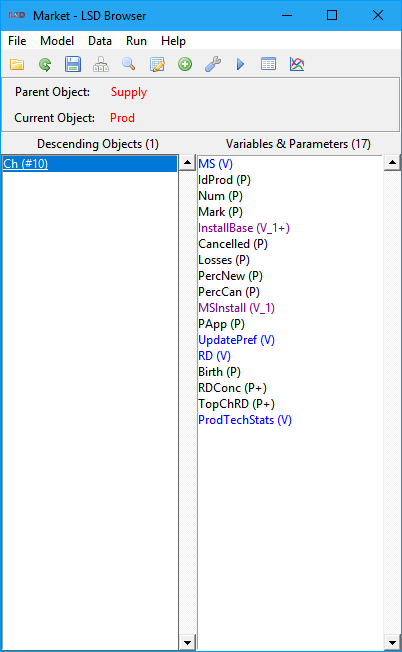
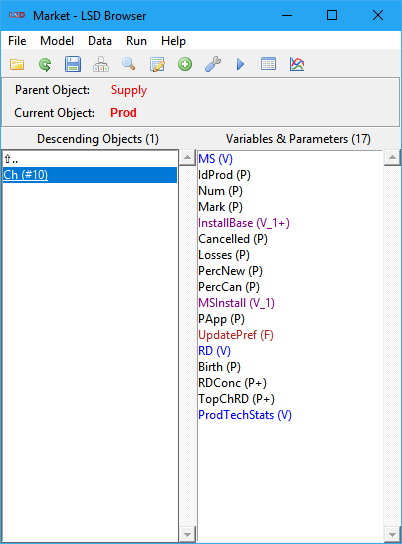
Change up moving in objects listbox in browser

Changed region(s): [[0.0, 0.0, 1.0, 1.0], [0.0, 0.9688, 0.4776, 1.0]]

diff --git a/src/interf.cpp b/src/interf.cpp
@@ -498,11 +498,22 @@ int browse( object *r, int *choice )
 		cmd( "mouse_wheel .l.s.c.son_name" );
 
 		// populate the objects panel
-		if ( r->b == NULL )
-			cmd( ".l.s.c.son_name insert end \"(none)\"; set nDesc 0" );
+		if ( r->up != NULL )
+		{
+			cmd( ".l.s.c.son_name insert end \"\u21E7..\"" );
+			cmd( "set upObjItem 1" );
+			cmd( "set app 1" );
+		}
 		else
 		{
+			cmd( "set upObjItem 0" );
 			cmd( "set app 0" );
+		}
+		
+		if ( r->up == NULL && r->b == NULL )
+			cmd( ".l.s.c.son_name insert end \"(none)\"" );
+		else
+		{
 			for ( cb = r->b; cb != NULL; cb = cb->next )
 			{
 				if ( cb->head != NULL )
@@ -520,10 +531,9 @@ int browse( object *r, int *choice )
 				cmd( ".l.s.c.son_name itemconf $app -fg red" );
 				cmd( "incr app" );
 			}
-			cmd( "set nDesc [ .l.s.c.son_name size ]" );
 		}	
 
-		cmd( "label .l.s.lab -text \"Descending Objects ($nDesc)\"" );
+		cmd( "label .l.s.lab -text \"Descending Objects ([ expr $app - $upObjItem ])\"" );
 
 		// objects panel context menu (right mouse button)
 		cmd( "menu .l.s.c.son_name.v -tearoff 0" );
@@ -552,19 +562,23 @@ int browse( object *r, int *choice )
 		cmd( ".l.s.c.son_name.v.a add command -label Object -command { set choice 3 }" );
 
 		// objects panel bindings
-		if ( r->b != NULL )
+		if ( r->up != NULL || r->b != NULL )
 		{
 			cmd( "bind .l.s.c.son_name <Return> { \
 					set listfocus 2; \
 					set itemfocus [ .l.s.c.son_name curselection ]; \
-					if { ! [ catch { set vname [ lindex [ split [ selection get ] ] 0 ] } ] } { \
-						set choice 4 \
+					if { $upObjItem && $itemfocus == 0 } { \
+						set choice 5 \
+					} { \
+						if { ! [ catch { set vname [ lindex [ split [ selection get ] ] 0 ] } ] } { \
+							set choice 4 \
+						} \
 					} \
 				}" );
 			cmd( "bind .l.s.c.son_name <Control-Return> { \
 					set listfocus 2; \
 					set itemfocus [ .l.s.c.son_name curselection ]; \
-					if { ! [ catch { set vname [ lindex [ split [ selection get ] ] 0 ] } ] } { \
+					if { ! ( $upObjItem && $itemfocus == 0 ) && ! [ catch { set vname [ lindex [ split [ selection get ] ] 0 ] } ] } { \
 						set useCurrObj no; \
 						set choice 6 \
 					} \
@@ -572,8 +586,12 @@ int browse( object *r, int *choice )
 			cmd( "bind .l.s.c.son_name <Double-Button-1> { \
 					set listfocus 2; \
 					set itemfocus [ .l.s.c.son_name curselection ]; \
-					if { ! [ catch { set vname [ lindex [ split [ selection get ] ] 0 ] } ] } { \
-						after idle { set choice 4 } \
+					if { $upObjItem && $itemfocus == 0 } { \
+						set choice 5 \
+					} { \
+						if { ! [ catch { set vname [ lindex [ split [ selection get ] ] 0 ] } ] } { \
+							after idle { set choice 4 } \
+						} \
 					} \
 				}" );
 			cmd( "bind .l.s.c.son_name <Button-2> { \
@@ -581,7 +599,7 @@ int browse( object *r, int *choice )
 					.l.s.c.son_name selection set @%%x,%%y; \
 					set listfocus 2; \
 					set itemfocus [ .l.s.c.son_name curselection ]; \
-					if { ! [ catch { set vname [ lindex [ split [ selection get ] ] 0 ] } ] } { \
+					if { ! ( $upObjItem && $itemfocus == 0 ) && ! [ catch { set vname [ lindex [ split [ selection get ] ] 0 ] } ] } { \
 						set useCurrObj no; \
 						set nocomp [ expr ! [ get_obj_conf $vname comp ] ]; \
 						if { $itemfocus == 0 } { \
@@ -603,34 +621,38 @@ int browse( object *r, int *choice )
 			cmd( "bind .l.s.c.son_name <Control-Up> { \
 					set listfocus 2; \
 					set itemfocus [ .l.s.c.son_name curselection ]; \
-					if { $itemfocus > 0 } { \
-						incr itemfocus -1 \
-					}; \
-					if { ! [ catch { set vname [ lindex [ split [ selection get ] ] 0 ] } ] } { \
-						set choice 60 \
+					if { ! ( $upObjItem && $itemfocus == 0 ) } { \
+						if { $itemfocus > 0 } { \
+							incr itemfocus -1 \
+						}; \
+						if { ! [ catch { set vname [ lindex [ split [ selection get ] ] 0 ] } ] } { \
+							set choice 60 \
+						} \
 					} \
 				}" );
 			cmd( "bind .l.s.c.son_name <Control-Down> { \
 					set listfocus 2; \
 					set itemfocus [ .l.s.c.son_name curselection ]; \
-					if { $itemfocus < [ expr [ .l.s.c.son_name size ] - 1 ] } { \
-						incr itemfocus \
-					}; \
-					if { ! [ catch { set vname [ lindex [ split [ selection get ] ] 0 ] } ] } { \
-						set choice 61 \
+					if { ! ( $upObjItem && $itemfocus == 0 ) } { \
+						if { $itemfocus < [ expr [ .l.s.c.son_name size ] - 1 ] } { \
+							incr itemfocus \
+						}; \
+						if { ! [ catch { set vname [ lindex [ split [ selection get ] ] 0 ] } ] } { \
+							set choice 61 \
+						} \
 					} \
 				}" );
 			cmd( "bind .l.s.c.son_name <Delete> { \
 					set listfocus 2; \
 					set itemfocus [ .l.s.c.son_name curselection ]; \
-					if { ! [ catch { set vname [ lindex [ split [ selection get ] ] 0 ] } ] } { \
+					if { ! ( $upObjItem && $itemfocus == 0 ) && ! [ catch { set vname [ lindex [ split [ selection get ] ] 0 ] } ] } { \
 						set choice 74 \
 					} \
 				}" );
 			cmd( "bind .l.s.c.son_name <F2> { \
 					set listfocus 2; \
 					set itemfocus [ .l.s.c.son_name curselection ]; \
-					if { ! [ catch { set vname [ lindex [ split [ selection get ] ] 0 ] } ] } { \
+					if { ! ( $upObjItem && $itemfocus == 0 ) && ! [ catch { set vname [ lindex [ split [ selection get ] ] 0 ] } ] } { \
 						set choice 83 \
 					} \
 				}" );
@@ -647,7 +669,7 @@ int browse( object *r, int *choice )
 			cmd( "bind .l.s.c.son_name <F5> { \
 					set listfocus 2; \
 					set itemfocus [ .l.s.c.son_name curselection ]; \
-					if { ! [ catch { set vname [ lindex [ split [ selection get ] ] 0 ] } ] && $actual_steps == 0 } { \
+					if { ! ( $upObjItem && $itemfocus == 0 ) && ! [ catch { set vname [ lindex [ split [ selection get ] ] 0 ] } ] && $actual_steps == 0 } { \
 						set nocomp [ expr ! [ get_obj_conf $vname comp ] ]; \
 						set ctxMenuCmd \"set_obj_conf $vname comp $nocomp\"; \
 						set choice 95 \
@@ -681,20 +703,18 @@ int browse( object *r, int *choice )
 		cmd( "label .l.p.up_name.d -text \"Parent Object:\" -width 12 -anchor w" );
 		if ( r->up != NULL )
 		{
-			cmd( "button .l.p.up_name.n -relief $bRlf -overrelief $ovBrlf -anchor e -text \" %s \" -command { set ttip \"\"; set itemfocus 0; set choice 5 } -foreground red", r->up->label );
-			cmd( "bind .l.p.up_name.n <Enter> { set ttip \"Make current\" }" );
-			cmd( "bind .l.p.up_name.n <Leave> { set ttip \"\" }" );
-			cmd( "bind . <KeyPress-u> { catch { .l.p.up_name.n invoke } }; bind . <KeyPress-U> { catch { .l.p.up_name.n invoke } }" );
+			cmd( "label .l.p.up_name.n -anchor e -text \"  %s\" -foreground red", r->up->label );
+			cmd( "bind . <KeyPress-u> { set itemfocus 0; set choice 5 }; bind . <KeyPress-U> { set itemfocus 0; set choice 5 }" );
 		}
 		else
-			cmd( "button .l.p.up_name.n -relief $bRlf -overrelief $ovBrlf -anchor e -text \"\" -state disabled" );
+			cmd( "label .l.p.up_name.n -anchor e -text \"\"" );
 
 		cmd( "pack .l.p.up_name.d .l.p.up_name.n -side left" );
 		cmd( "pack .l.p.up_name -padx 9 -anchor w" );
 
 		cmd( "frame .l.p.tit" );
 		cmd( "label .l.p.tit.lab -text \"Current Object:\" -width 12 -anchor w" );
-		cmd( "button .l.p.tit.but -foreground red -relief $bRlf -overrelief $ovBrlf -anchor e -text \" %s \" %s", r->label, r->up == NULL ? "" : "-command { set ttip \"\"; set choice 6 }" );
+		cmd( "button .l.p.tit.but -foreground red -relief $bRlf -overrelief $ovBrlf -anchor e -text \" %s \" %s -font [ font create -family TkDefaultFont -size $small_character -weight bold ]", r->label, r->up == NULL ? "" : "-command { set ttip \"\"; set choice 6 }" );
 
 		if ( r->up != NULL ) 
 		{
@@ -2072,7 +2092,7 @@ case 7:
 
 	if ( done == 9 ) 
 	{
-		cmd( "set text_description \"[.chgelem.desc.f.text get 1.0 end]\"" );
+		cmd( "set text_description \"[ .chgelem.desc.f.text get 1.0 end ]\"" );
 		change_descr_text( lab_old );
 	  
 		auto_document( choice, lab_old, "ALL", true );
